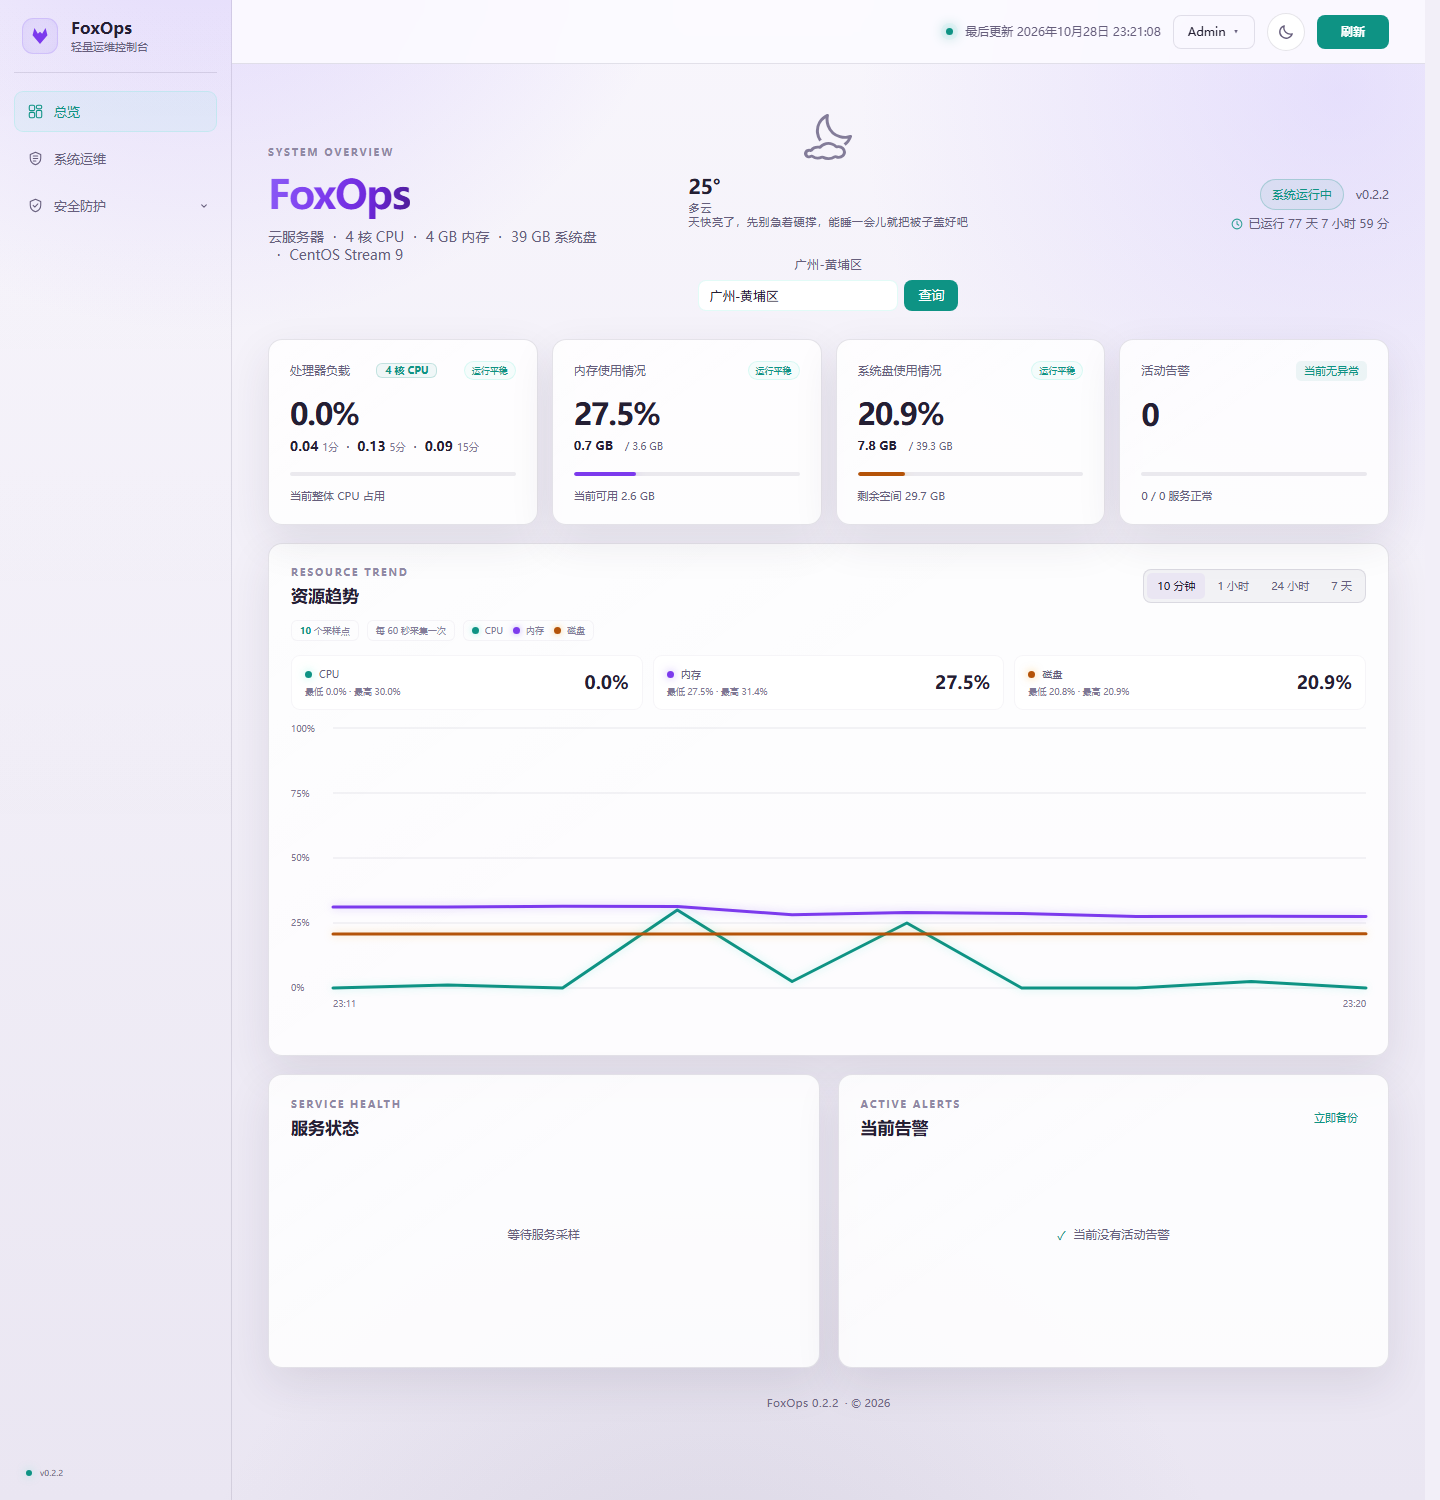
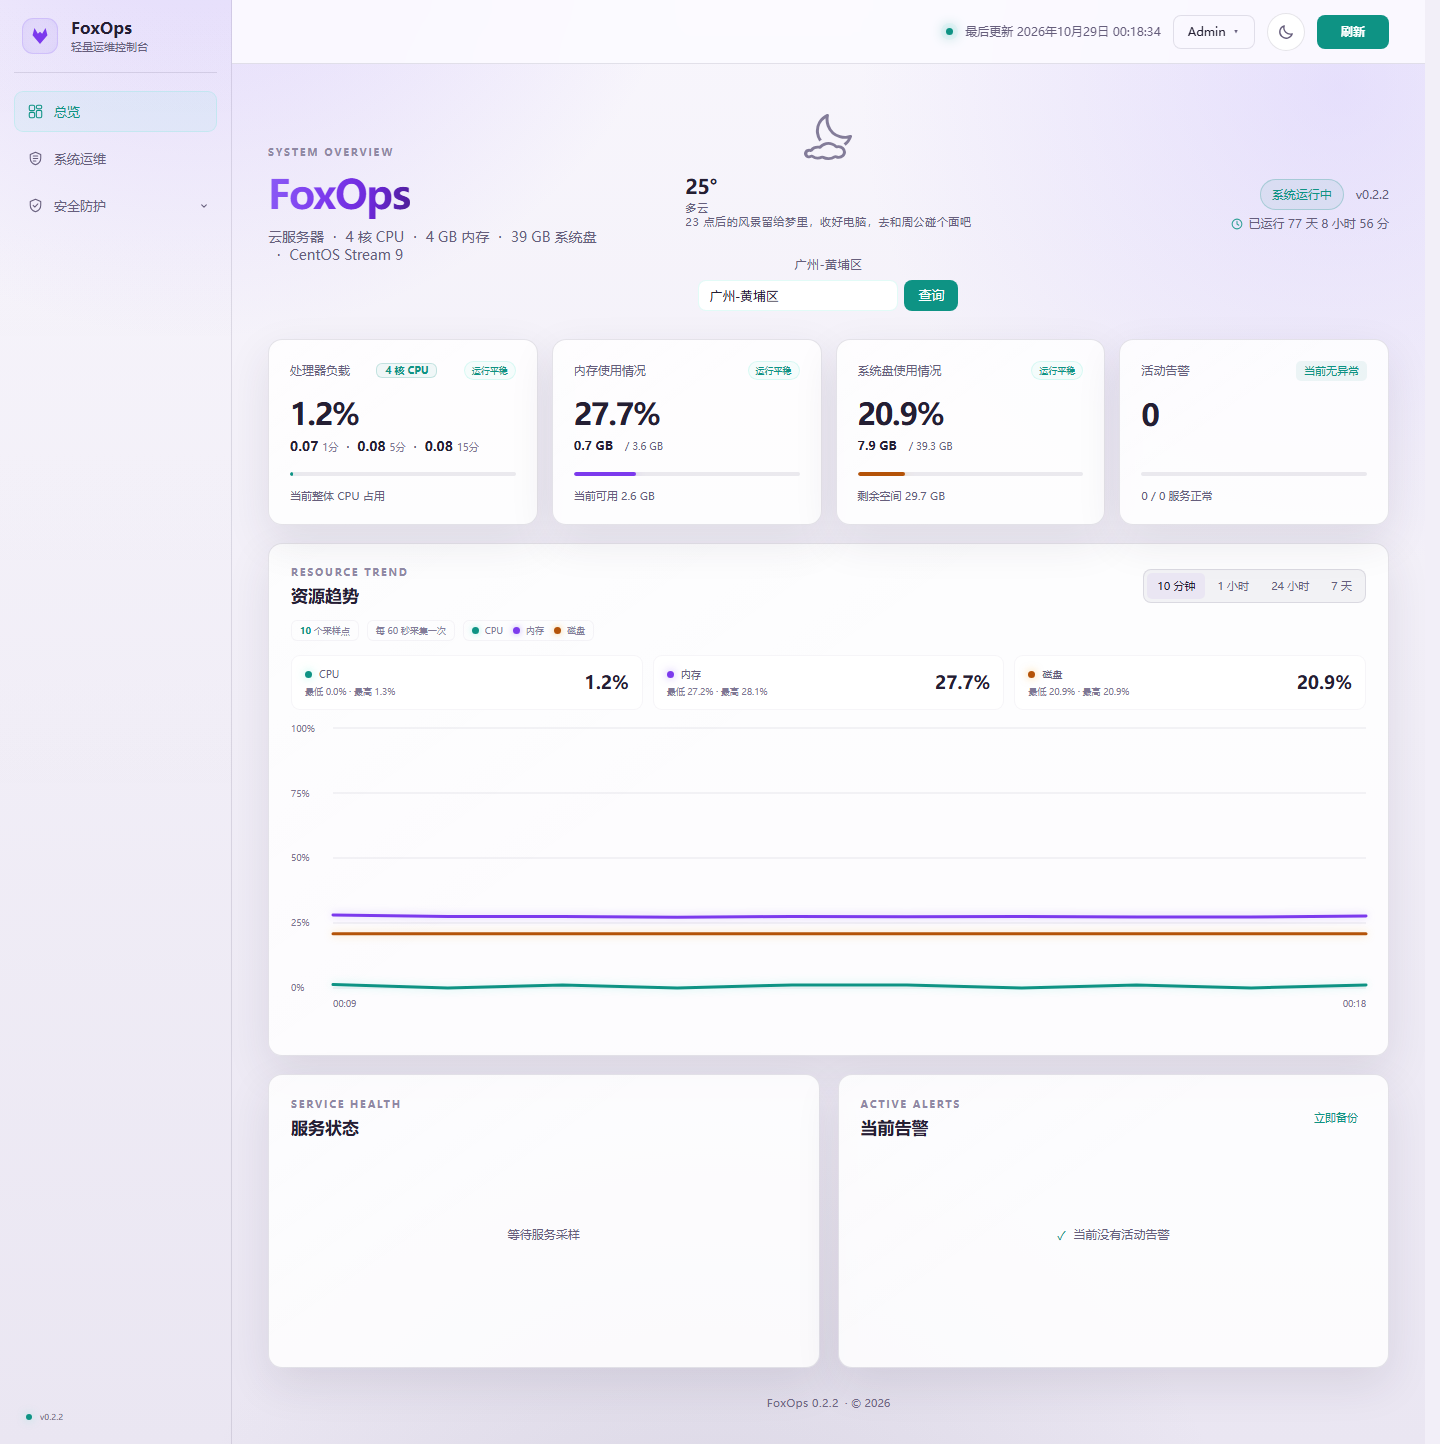
补布局改版记录并重拍效果截图
- 文档：CHANGELOG 0.2.2 补面板布局改版条目，发布日期改为 2026-10-29
- 文档：README 增加 GitHub release 徽章
- 文档：效果截图重拍，登录页 1440x900、面板页按内容高度 1440x1444，去掉底部多余留白
- 工具：截图脚本登录页固定 900 视口，面板页按 scrollHeight 自适应

diff --git a/CHANGELOG.md b/CHANGELOG.md
@@ -2,7 +2,7 @@
 
 ## FoxOps 轻量服务器监控系统版本更新
 
-发布日期：2026-10-25
+发布日期：2026-10-29
 
 ### 新增
 
@@ -12,6 +12,7 @@
 
 ### 调整
 
+- **面板布局改版**：logo 从顶栏挪到左侧栏顶部，做成常驻品牌栏——logo、导航、版本号三者固定在左上角，内容滚动时不跟着动；原全宽顶栏收窄进右列，只保留更新时间、账户菜单、主题切换与刷新按钮。删掉旧的「顶栏 + `app-body`」双层结构，改为侧栏 + 右列 workspace 的网格布局；窄屏（≤900px）侧栏自动折成顶部横条，副标题隐藏，logo 仍在左上角。
 - **侧栏分组**：「后台管理」收进「安全防护」分组，不再占用一级导航——点击安全防护展开小菜单（含后台管理），右侧箭头可单独展开/收起；进入安全防护或后台管理时自动展开，窄屏下小菜单改为横排。
 - **安全防护页时钟**：原先单独显示的右上角时间并入「数据更新于 …」一行，并改为秒级走表，用 `GET /api/security/status` 返回的 `server_time` 校正客户端时钟偏移（每次刷新重新对齐，避免本机时间不准）；不再标注统计窗口。走表对齐整秒调度，`server_time` 精确到毫秒，避免「两秒跳一格」。
 - **系统运维页**：移除「1 秒采样」说明文字，头部只保留主机名与系统名称。

diff --git a/README.md b/README.md
@@ -1,6 +1,7 @@
 # FoxOps
 
 ![version](https://img.shields.io/badge/version-0.2.2-blue?style=flat-square)
+![release](https://img.shields.io/github/v/release/Swipa5fox/FoxOps?style=flat-square&label=release&color=8b5cf6)
 ![platform](https://img.shields.io/badge/platform-Linux-lightgrey?style=flat-square&logo=linux&logoColor=black)
 ![python](https://img.shields.io/badge/Python-3.9+-3776AB?style=flat-square&logo=python&logoColor=white)
 ![fastapi](https://img.shields.io/badge/FastAPI-009688?style=flat-square&logo=fastapi&logoColor=white)
